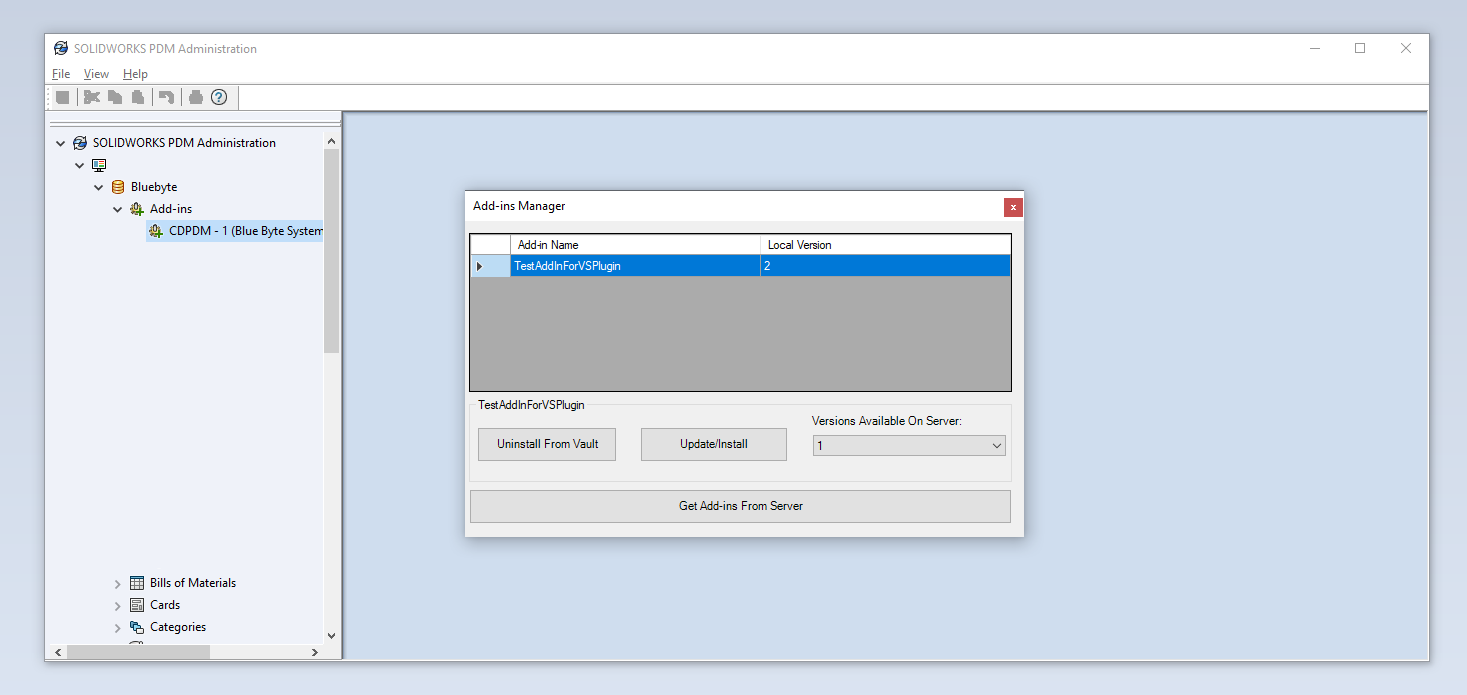
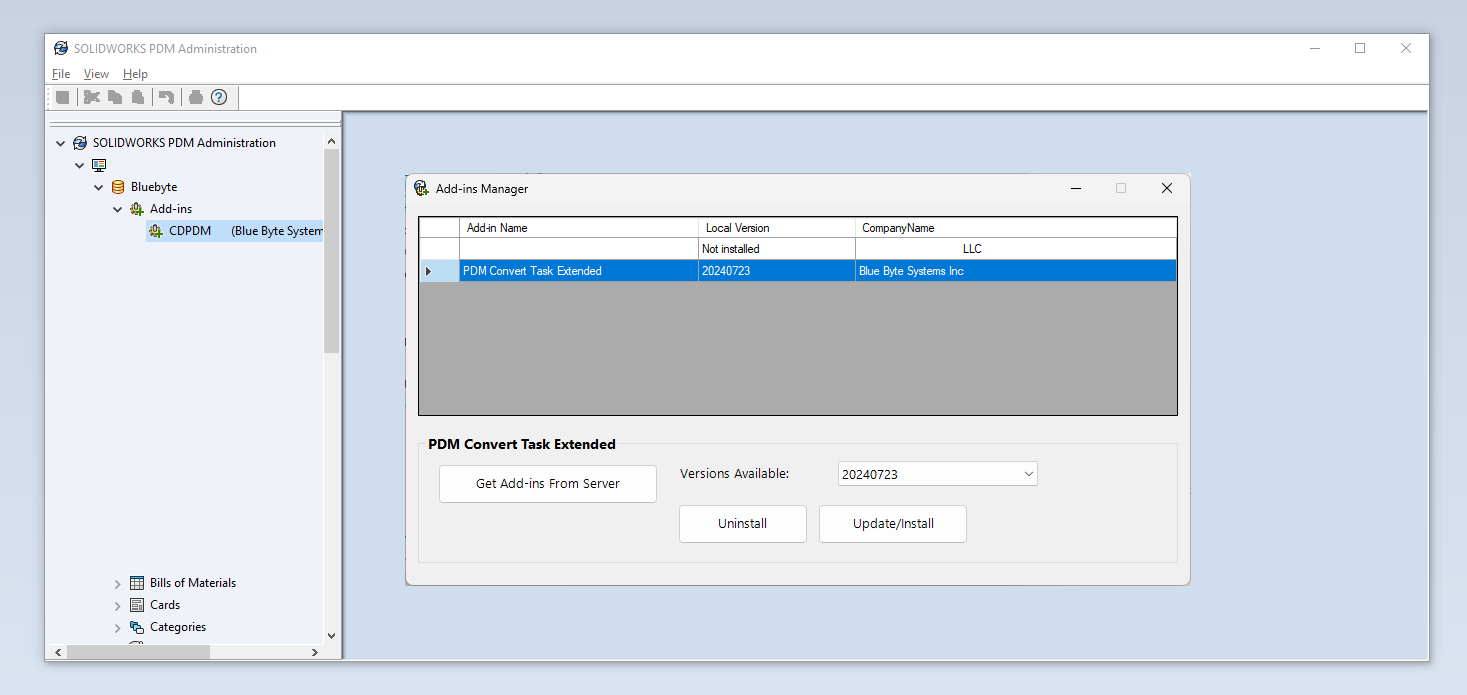
added files

Changed region(s): [[0.2761, 0.2417, 0.8282, 0.846]]

diff --git a/docs/src/usingautoupdaterpdmconverttaskextended.html b/docs/src/usingautoupdaterpdmconverttaskextended.html
@@ -2,9 +2,9 @@
 <html>
   <head>
     <meta charset="utf-8">
-      <title>Auto-updater add-in | Helper Center </title>
+      <title>Updating PDM Convert Task with CDPDM | Helper Center </title>
       <meta name="viewport" content="width=device-width, initial-scale=1.0">
-      <meta name="title" content="Auto-updater add-in | Helper Center ">
+      <meta name="title" content="Updating PDM Convert Task with CDPDM | Helper Center ">
       
       
       <link rel="icon" href="../favicon.ico">
@@ -85,35 +85,43 @@
         </div>
 
         <article data-uid="">
-<h1 id="auto-updater-add-in">Auto-updater add-in</h1>
+<h1 id="updating-pdm-convert-task-with-cdpdm">Updating PDM Convert Task with CDPDM</h1>
 
-<p>The auto-updater add-in is a tool developed by Blue Byte Systems, Inc. to streamline our code delivery process for our SOLIDWORKS PDM customers.</p>
-<p>The tool is an add-in that allows you to access your purchased add-ins and all their versions.</p>
-<p>To install the add-in:</p>
+<p>This article is about updating the PDM Convert Task using the CDPDM add-in, developed by Blue Byte Systems, Inc. This tool streamlines the code delivery process for SOLIDWORKS PDM customers by utilizing the CDPDM continuous delivery platform. It allows you to access and update your purchased add-ins and all their versions efficiently.</p>
+<h3 id="installation-steps">Installation Steps:</h3>
 <ol>
-<li><strong>Download the auto-updater add-in</strong>. The link is in your order confirmation. It’s also accessible from the downloads section in your account.</li>
-<li>The auto-updater add-in is a zip archive, so make sure to right-click on it and unblock it from the file’s properties before you unzip its content.</li>
-<li>In your administration tool, log into your vault and then go to <strong>File &gt; Open</strong> and browse to <code>Auto-UpdaterAddInVX.cex</code> (unzipped content).</li>
+<li><strong>Download the CDPDM add-in</strong>: The link is provided in your order confirmation and is also available in the downloads section of your account.</li>
+<li><strong>Unblock the downloaded file</strong>: Right-click on the zip archive and select <strong>Properties</strong>. In the properties dialog, check the <strong>Unblock</strong> option and click <strong>OK</strong>.</li>
+<li><strong>Unzip the archive</strong>: Extract the contents of the zip archive.</li>
+<li><strong>Open the administration tool</strong>: Log into your vault.</li>
+<li><strong>Import the add-in</strong>:
+<ul>
+<li>Go to <strong>File &gt; Open</strong> and browse to <code>CDPDM.cex</code> (unzipped content).</li>
 <li>Click <strong>OK</strong> to open the CEX file.</li>
-<li>Drag and drop the auto-updater add-in icon onto the add-ins node in the administration tool. This will add the add-in into the add-ins node.</li>
-<li>Right-click on the add-in and click on <strong>Server Credentials…</strong></li>
-<li>Add your server credentials and click on <strong>Close</strong>. Your server credentials are your Blue Byte Systems account credentials.</li>
+<li>Drag and drop the CDPDM add-in icon onto the add-ins node in the administration tool. This will add the add-in into the add-ins node.</li>
+</ul>
+</li>
+<li><strong>Upload the customer configuration file</strong>:
+<ul>
+<li>Locate the customer configuration file from your order confirmation email.</li>
+<li>Unblock the downloaded configuration file: Right-click on the file, select <strong>Properties</strong>, check the <strong>Unblock</strong> option, and click <strong>OK</strong>.</li>
+<li>Right-click on the CDPDM add-in and click on <strong>Update customer configuration file...</strong></li>
+<li>Browse to the unblocked customer configuration file and upload it.</li>
+</ul>
+</li>
 </ol>
-<p>To update an add-in:</p>
+<h3 id="updating-an-add-in">Updating an Add-in:</h3>
 <ol>
-<li>Right-click on the add-in and click on <strong>Update add-ins…</strong></li>
+<li>Right-click on the CDPDM add-in and click on <strong>Update add-ins…</strong></li>
 <li>This will show the main dialog of the add-in where you can select from the dropdown list the program you would like to install.</li>
 <li>Click on the <strong>Install</strong> button to install the selected add-in.</li>
 <li>The process might take a few moments, so please wait.</li>
 <li>You will be prompted at the end to restart your PDM session. This allows your local client to get the new version of the installed add-in.</li>
 </ol>
-<p align="center">
-  <video src="../images/preview.mp4" controls="" type="video/mp4" width="800"></video>
-</p>
-<h1 id="warnings">Warnings</h1>
+<h3 id="warnings">Warnings</h3>
 <div class="WARNING">
 <h5>Warning</h5>
-<p>You must backup your tasks. The auto-updater does not update your existing tasks or permit the add-in the <em>Task Host Configuration</em>.</p>
+<p>You must back up your tasks. The CDPDM add-in does not update your existing tasks or permit the add-in the <em>Task Host Configuration</em>.</p>
 </div>
 <div class="WARNING">
 <h5>Warning</h5>

diff --git a/docs/src/pdm2excelautoupdater.html b/docs/src/pdm2excelautoupdater.html
@@ -2,9 +2,9 @@
 <html>
   <head>
     <meta charset="utf-8">
-      <title>Auto-updater add-in | Helper Center </title>
+      <title>Updating PDM2Excel with CDPDM | Helper Center </title>
       <meta name="viewport" content="width=device-width, initial-scale=1.0">
-      <meta name="title" content="Auto-updater add-in | Helper Center ">
+      <meta name="title" content="Updating PDM2Excel with CDPDM | Helper Center ">
       
       
       <link rel="icon" href="../favicon.ico">
@@ -85,35 +85,43 @@
         </div>
 
         <article data-uid="">
-<h1 id="auto-updater-add-in">Auto-updater add-in</h1>
+<h1 id="updating-pdm2excel-with-cdpdm">Updating PDM2Excel with CDPDM</h1>
 
-<p>The auto-updater add-in is a tool developed by Blue Byte Systems, Inc. to streamline our code delivery process for our SOLIDWORKS PDM customers.</p>
-<p>The tool is an add-in that allows you to access your purchased add-ins and all their versions.</p>
-<p>To install the add-in:</p>
+<p>This article is about updating the PDM2Excel add-in using the CDPDM add-in, developed by Blue Byte Systems, Inc. This tool streamlines the code delivery process for SOLIDWORKS PDM customers by utilizing the CDPDM continuous delivery platform. It allows you to access and update your purchased add-ins and all their versions efficiently.</p>
+<h3 id="installation-steps">Installation Steps:</h3>
 <ol>
-<li><strong>Download the auto-updater add-in</strong>. The link is in your order confirmation. It’s also accessible from the downloads section in your account.</li>
-<li>The auto-updater add-in is a zip archive, so make sure to right-click on it and unblock it from the file’s properties before you unzip its content.</li>
-<li>In your administration tool, log into your vault and then go to <strong>File &gt; Open</strong> and browse to <code>Auto-UpdaterAddInVX.cex</code> (unzipped content).</li>
+<li><strong>Download the CDPDM add-in</strong>: The link is provided in your order confirmation and is also available in the downloads section of your account.</li>
+<li><strong>Unblock the downloaded file</strong>: Right-click on the zip archive and select <strong>Properties</strong>. In the properties dialog, check the <strong>Unblock</strong> option and click <strong>OK</strong>.</li>
+<li><strong>Unzip the archive</strong>: Extract the contents of the zip archive.</li>
+<li><strong>Open the administration tool</strong>: Log into your vault.</li>
+<li><strong>Import the add-in</strong>:
+<ul>
+<li>Go to <strong>File &gt; Open</strong> and browse to <code>CDPDM.cex</code> (unzipped content).</li>
 <li>Click <strong>OK</strong> to open the CEX file.</li>
-<li>Drag and drop the auto-updater add-in icon onto the add-ins node in the administration tool. This will add the add-in into the add-ins node.</li>
-<li>Right-click on the add-in and click on <strong>Server Credentials…</strong></li>
-<li>Add your server credentials and click on <strong>Close</strong>. Your server credentials are your Blue Byte Systems account credentials.</li>
+<li>Drag and drop the CDPDM add-in icon onto the add-ins node in the administration tool. This will add the add-in into the add-ins node.</li>
+</ul>
+</li>
+<li><strong>Upload the customer configuration file</strong>:
+<ul>
+<li>Locate the customer configuration file from your order confirmation email.</li>
+<li>Unblock the downloaded configuration file: Right-click on the file, select <strong>Properties</strong>, check the <strong>Unblock</strong> option, and click <strong>OK</strong>.</li>
+<li>Right-click on the CDPDM add-in and click on <strong>Update customer configuration file...</strong></li>
+<li>Browse to the unblocked customer configuration file and upload it.</li>
+</ul>
+</li>
 </ol>
-<p>To update an add-in:</p>
+<h3 id="updating-an-add-in">Updating an Add-in:</h3>
 <ol>
-<li>Right-click on the add-in and click on <strong>Update add-ins…</strong></li>
+<li>Right-click on the CDPDM add-in and click on <strong>Update add-ins…</strong></li>
 <li>This will show the main dialog of the add-in where you can select from the dropdown list the program you would like to install.</li>
 <li>Click on the <strong>Install</strong> button to install the selected add-in.</li>
 <li>The process might take a few moments, so please wait.</li>
 <li>You will be prompted at the end to restart your PDM session. This allows your local client to get the new version of the installed add-in.</li>
 </ol>
-<p align="center">
-  <video src="../images/preview.mp4" controls="" type="video/mp4" width="800"></video>
-</p>
-<h1 id="warnings">Warnings</h1>
+<h3 id="warnings">Warnings</h3>
 <div class="WARNING">
 <h5>Warning</h5>
-<p>You must backup your tasks. The auto-updater does not update your existing tasks or permit the add-in the <em>Task Host Configuration</em>.</p>
+<p>You must back up your tasks. The CDPDM add-in does not update your existing tasks or permit the add-in the <em>Task Host Configuration</em>.</p>
 </div>
 <div class="WARNING">
 <h5>Warning</h5>

diff --git a/docs/src/toc.html b/docs/src/toc.html
@@ -30,7 +30,7 @@
                               <a href="installingpdmconverttaskextended.html" name="" title="Installation/Update">Installation/Update</a>
                           </li>
                           <li>
-                              <a href="usingautoupdaterpdmconverttaskextended.html" name="" title="Installing/Updating using Auto-Updater">Installing/Updating using Auto-Updater</a>
+                              <a href="usingautoupdaterpdmconverttaskextended.html" name="" title="Installing/Updating using CDPDM">Installing/Updating using CDPDM</a>
                           </li>
                           <li>
                               <a href="licensespdmconverttaskextended.html" name="" title="License Management">License Management</a>
@@ -74,7 +74,7 @@
                               <a href="pdm2excelinstalling.html" name="" title="Installation/Update">Installation/Update</a>
                           </li>
                           <li>
-                              <a href="pdm2excelautoupdater.html" name="" title="Installing/Updating using Auto-Updater">Installing/Updating using Auto-Updater</a>
+                              <a href="pdm2excelautoupdater.html" name="" title="Installing/Updating using CDPDM">Installing/Updating using CDPDM</a>
                           </li>
                           <li>
                               <a href="pdm2excellicensemanagement.html" name="" title="License Management">License Management</a>

diff --git a/docs/src/cdpdm.html b/docs/src/cdpdm.html
@@ -89,7 +89,7 @@
 
 <div class="NOTE">
 <h5>Note</h5>
-<p>This is only available for consulting projects. Our product line has its own CD pipeline.</p>
+<p>This is available for consulting projects and/or if you have purchased purchased a product from us.</p>
 </div>
 <div class="embeddedvideo"><iframe src="https://www.loom.com/embed/0caf90c77d4344cab8d88b0d318d6dcf?sid=ecf596af-8fe9-460c-9177-a568db909600" frameborder="0" allowfullscreen="true"></iframe></div>
 <p>CDPDM is a PDM add-in by Blue Byte Systems Inc. that facilitates the deployment of PDM and task add-ins developed for you.</p>
@@ -143,7 +143,7 @@
 <p><img src="../images/cdpdm_updateaddins.png" alt="CDPDM Update"></p>
 <p>You can:</p>
 <ul>
-<li>Install the selected add-in from the list. From the <em>Versions Available On Server</em> dropdown, you can select which version to install.</li>
+<li>Install the selected add-in from the list. From the <em>Versions</em> dropdown, you can select which version to install.</li>
 <li>Uninstall the selected add-in from the vault (if it is installed).</li>
 </ul>
 <p>The installation process will ask you if you want to restart PDM. This may be beneficial to do after every upgrade, especially if you're validating a feature.</p>

diff --git a/src/usingautoupdaterpdmconverttaskextended.md b/src/usingautoupdaterpdmconverttaskextended.md
@@ -1,41 +1,35 @@
-# Auto-updater add-in
+# Updating PDM Convert Task with CDPDM
 
+This article is about updating the PDM Convert Task using the CDPDM add-in, developed by Blue Byte Systems, Inc. This tool streamlines the code delivery process for SOLIDWORKS PDM customers by utilizing the CDPDM continuous delivery platform. It allows you to access and update your purchased add-ins and all their versions efficiently.
 
+### Installation Steps:
 
-The auto-updater add-in is a tool developed by Blue Byte Systems, Inc. to streamline our code delivery process for our SOLIDWORKS PDM customers.
+1. **Download the CDPDM add-in**: The link is provided in your order confirmation and is also available in the downloads section of your account.
+2. **Unblock the downloaded file**: Right-click on the zip archive and select **Properties**. In the properties dialog, check the **Unblock** option and click **OK**.
+3. **Unzip the archive**: Extract the contents of the zip archive.
+4. **Open the administration tool**: Log into your vault.
+5. **Import the add-in**:
+    - Go to **File > Open** and browse to `CDPDM.cex` (unzipped content).
+    - Click **OK** to open the CEX file.
+    - Drag and drop the CDPDM add-in icon onto the add-ins node in the administration tool. This will add the add-in into the add-ins node.
+6. **Upload the customer configuration file**:
+    - Locate the customer configuration file from your order confirmation email.
+    - Unblock the downloaded configuration file: Right-click on the file, select **Properties**, check the **Unblock** option, and click **OK**.
+    - Right-click on the CDPDM add-in and click on **Update customer configuration file...**
+    - Browse to the unblocked customer configuration file and upload it.
 
-The tool is an add-in that allows you to access your purchased add-ins and all their versions.
+### Updating an Add-in:
 
-To install the add-in:
-
-1. **Download the auto-updater add-in**. The link is in your order confirmation. It’s also accessible from the downloads section in your account.
-2. The auto-updater add-in is a zip archive, so make sure to right-click on it and unblock it from the file’s properties before you unzip its content.
-3. In your administration tool, log into your vault and then go to **File > Open** and browse to `Auto-UpdaterAddInVX.cex` (unzipped content).
-4. Click **OK** to open the CEX file.
-5. Drag and drop the auto-updater add-in icon onto the add-ins node in the administration tool. This will add the add-in into the add-ins node.
-6. Right-click on the add-in and click on **Server Credentials…**
-7. Add your server credentials and click on **Close**. Your server credentials are your Blue Byte Systems account credentials.
-
-To update an add-in:
-
-1. Right-click on the add-in and click on **Update add-ins…**
+1. Right-click on the CDPDM add-in and click on **Update add-ins…**
 2. This will show the main dialog of the add-in where you can select from the dropdown list the program you would like to install.
 3. Click on the **Install** button to install the selected add-in.
 4. The process might take a few moments, so please wait.
 5. You will be prompted at the end to restart your PDM session. This allows your local client to get the new version of the installed add-in.
 
-<p align="center">
-  <video src="../images/preview.mp4" controls type="video/mp4" width="800"/>
-</p>
+### Warnings
 
+> [!Warning]
+> You must back up your tasks. The CDPDM add-in does not update your existing tasks or permit the add-in the *Task Host Configuration*.
 
-# Warnings
-
->[!Warning]
-> You must backup your tasks. The auto-updater does not update your existing tasks or permit the add-in the *Task Host Configuration*.
-
-
->[!Warning]
+> [!Warning]
 > All client computers using the add-in's tasks must be restarted to use the new version.
-
-

diff --git a/src/pdm2excelautoupdater.md b/src/pdm2excelautoupdater.md
@@ -1,40 +1,35 @@
+# Updating PDM2Excel with CDPDM
 
-# Auto-updater add-in
+This article is about updating the PDM2Excel add-in using the CDPDM add-in, developed by Blue Byte Systems, Inc. This tool streamlines the code delivery process for SOLIDWORKS PDM customers by utilizing the CDPDM continuous delivery platform. It allows you to access and update your purchased add-ins and all their versions efficiently.
 
-The auto-updater add-in is a tool developed by Blue Byte Systems, Inc. to streamline our code delivery process for our SOLIDWORKS PDM customers.
+### Installation Steps:
 
-The tool is an add-in that allows you to access your purchased add-ins and all their versions.
+1. **Download the CDPDM add-in**: The link is provided in your order confirmation and is also available in the downloads section of your account.
+2. **Unblock the downloaded file**: Right-click on the zip archive and select **Properties**. In the properties dialog, check the **Unblock** option and click **OK**.
+3. **Unzip the archive**: Extract the contents of the zip archive.
+4. **Open the administration tool**: Log into your vault.
+5. **Import the add-in**:
+    - Go to **File > Open** and browse to `CDPDM.cex` (unzipped content).
+    - Click **OK** to open the CEX file.
+    - Drag and drop the CDPDM add-in icon onto the add-ins node in the administration tool. This will add the add-in into the add-ins node.
+6. **Upload the customer configuration file**:
+    - Locate the customer configuration file from your order confirmation email.
+    - Unblock the downloaded configuration file: Right-click on the file, select **Properties**, check the **Unblock** option, and click **OK**.
+    - Right-click on the CDPDM add-in and click on **Update customer configuration file...**
+    - Browse to the unblocked customer configuration file and upload it.
 
-To install the add-in:
+### Updating an Add-in:
 
-1. **Download the auto-updater add-in**. The link is in your order confirmation. It’s also accessible from the downloads section in your account.
-2. The auto-updater add-in is a zip archive, so make sure to right-click on it and unblock it from the file’s properties before you unzip its content.
-3. In your administration tool, log into your vault and then go to **File > Open** and browse to `Auto-UpdaterAddInVX.cex` (unzipped content).
-4. Click **OK** to open the CEX file.
-5. Drag and drop the auto-updater add-in icon onto the add-ins node in the administration tool. This will add the add-in into the add-ins node.
-6. Right-click on the add-in and click on **Server Credentials…**
-7. Add your server credentials and click on **Close**. Your server credentials are your Blue Byte Systems account credentials.
-
-To update an add-in:
-
-1. Right-click on the add-in and click on **Update add-ins…**
+1. Right-click on the CDPDM add-in and click on **Update add-ins…**
 2. This will show the main dialog of the add-in where you can select from the dropdown list the program you would like to install.
 3. Click on the **Install** button to install the selected add-in.
 4. The process might take a few moments, so please wait.
 5. You will be prompted at the end to restart your PDM session. This allows your local client to get the new version of the installed add-in.
 
-<p align="center">
-  <video src="../images/preview.mp4" controls type="video/mp4" width="800"/>
-</p>
+### Warnings
 
+> [!Warning]
+> You must back up your tasks. The CDPDM add-in does not update your existing tasks or permit the add-in the *Task Host Configuration*.
 
-# Warnings
-
->[!Warning]
-> You must backup your tasks. The auto-updater does not update your existing tasks or permit the add-in the *Task Host Configuration*.
-
-
->[!Warning]
+> [!Warning]
 > All client computers using the add-in's tasks must be restarted to use the new version.
-
-

diff --git a/src/cdpdm.md b/src/cdpdm.md
@@ -1,7 +1,7 @@
 # Continuous Delivery
 
 >[!NOTE]
-> This is only available for consulting projects. Our product line has its own CD pipeline.
+> This is available for consulting projects and/or if you have purchased purchased a product from us.
 
 
 > [!Video https://www.loom.com/embed/0caf90c77d4344cab8d88b0d318d6dcf?sid=ecf596af-8fe9-460c-9177-a568db909600]
@@ -62,7 +62,7 @@ The advantages of using CDPDM are numerous:
 
 You can:
 
-- Install the selected add-in from the list. From the *Versions Available On Server* dropdown, you can select which version to install.
+- Install the selected add-in from the list. From the *Versions* dropdown, you can select which version to install.
 - Uninstall the selected add-in from the vault (if it is installed).
 
 The installation process will ask you if you want to restart PDM. This may be beneficial to do after every upgrade, especially if you're validating a feature.
